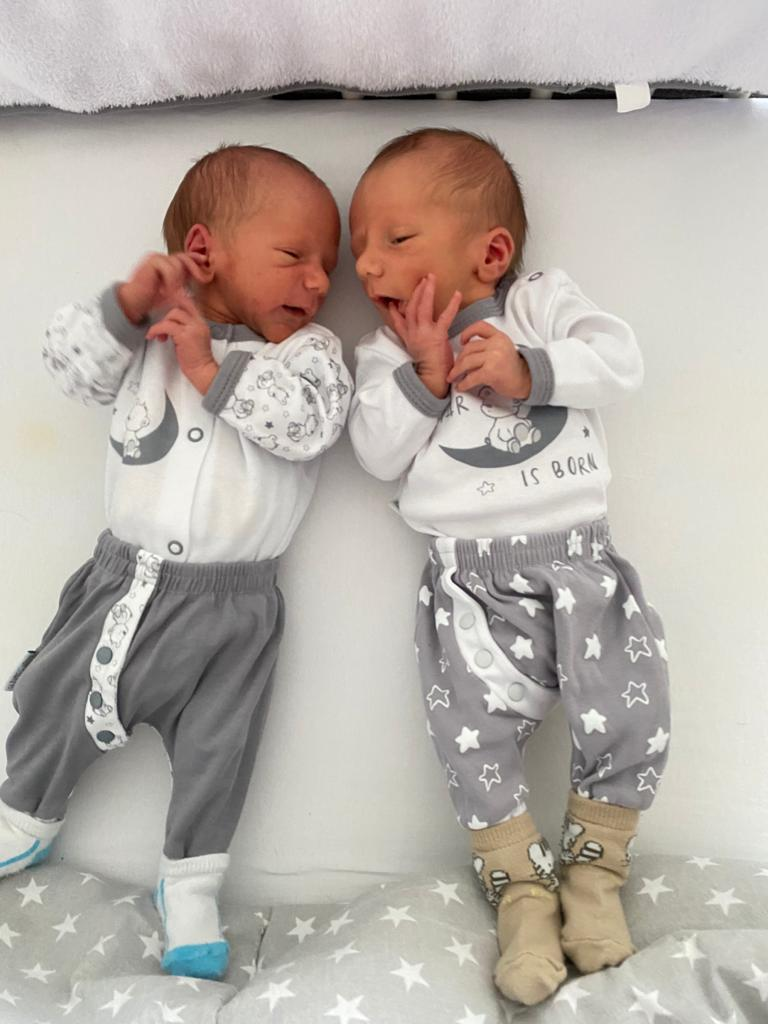
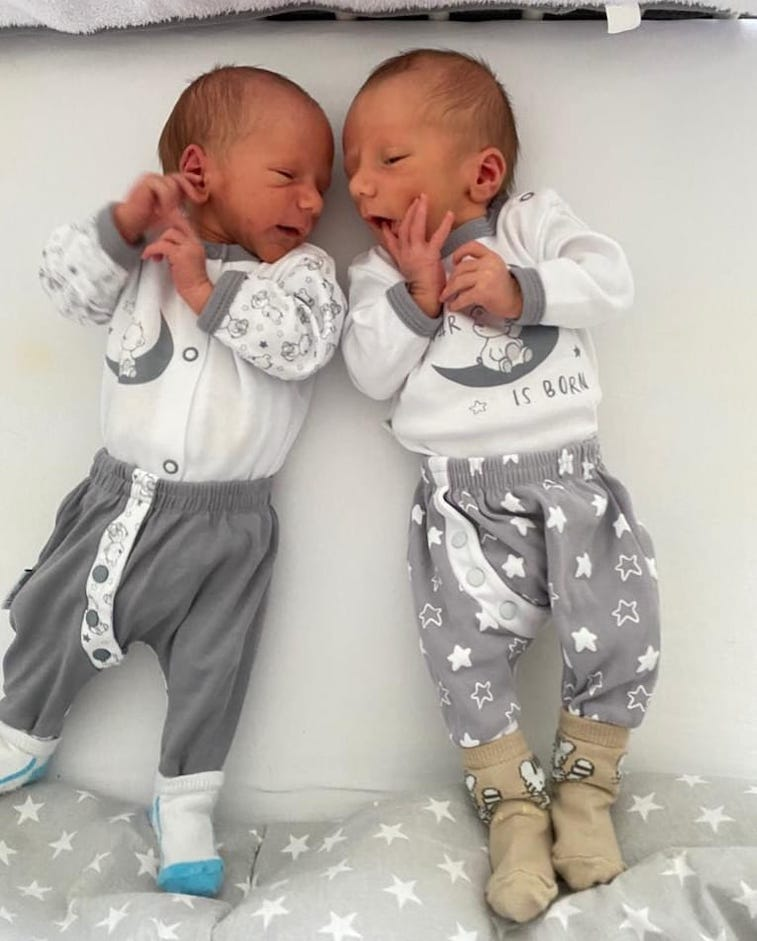
fix: image size

diff --git a/src/index.scss b/src/index.scss
@@ -206,6 +206,12 @@ a {
     }
   }
 
+  section.hero {
+    .title {
+      margin-bottom: 0;
+    }
+  }
+
   .grid {
     display: grid;
     grid-template-columns: 2fr 1fr;
@@ -245,4 +251,7 @@ a {
   }
 }
 
-th, td { padding: 0 10px 5px 0; }
+th,
+td {
+  padding: 0 10px 5px 0;
+}
